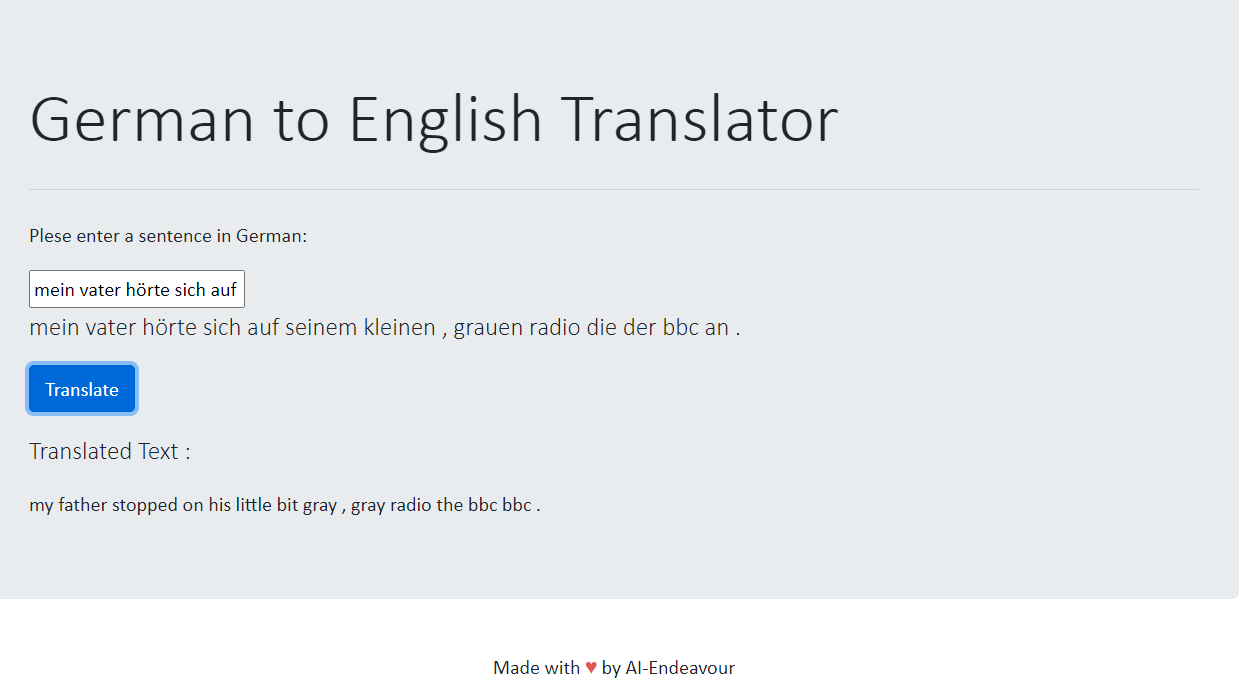
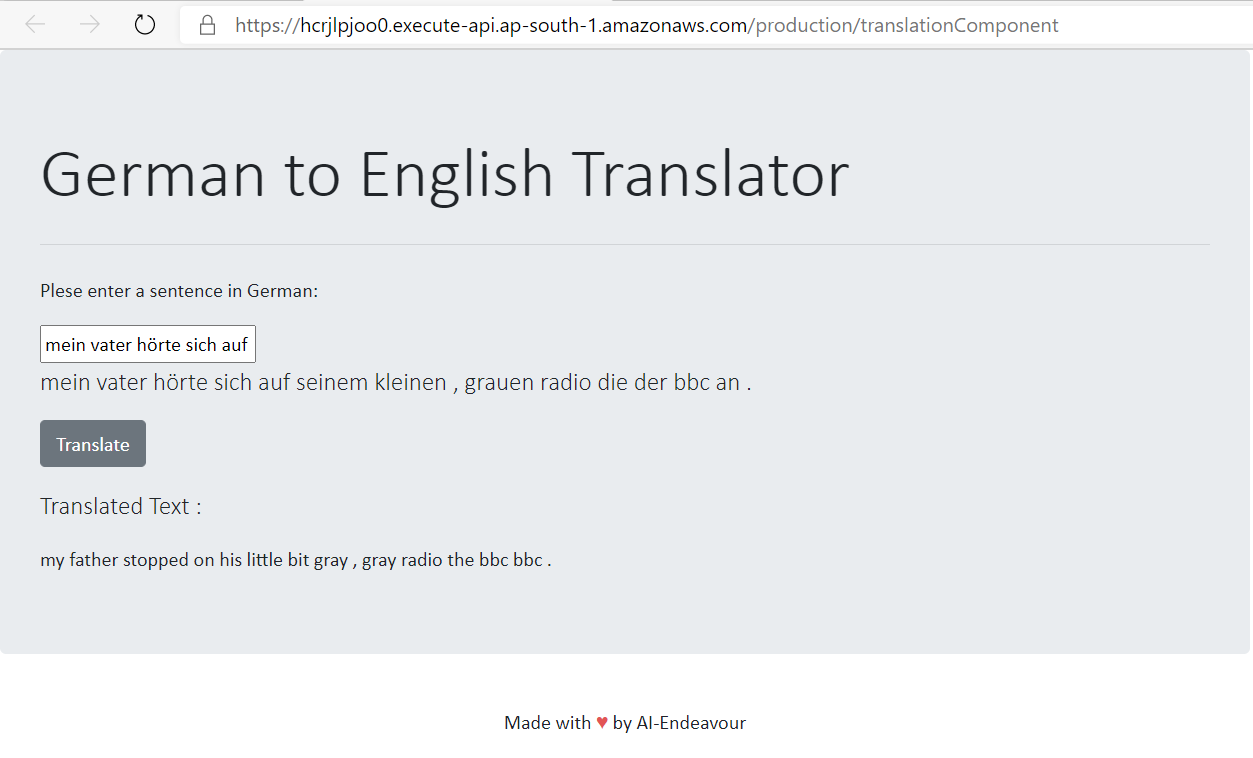
Updated Translation Result

diff --git a/Session-11/Assignment-11/src/ui/src/sentiment-app/src/app/translation/translation.component.html b/Session-11/Assignment-11/src/ui/src/sentiment-app/src/app/translation/translation.component.html
@@ -1,4 +1,4 @@
-<div class="jumbotron container">
+<div class="jumbotron container-fluid">
   <h1 class="display-4">German to English Translator</h1>
   <hr class="my-4">
   <div>
